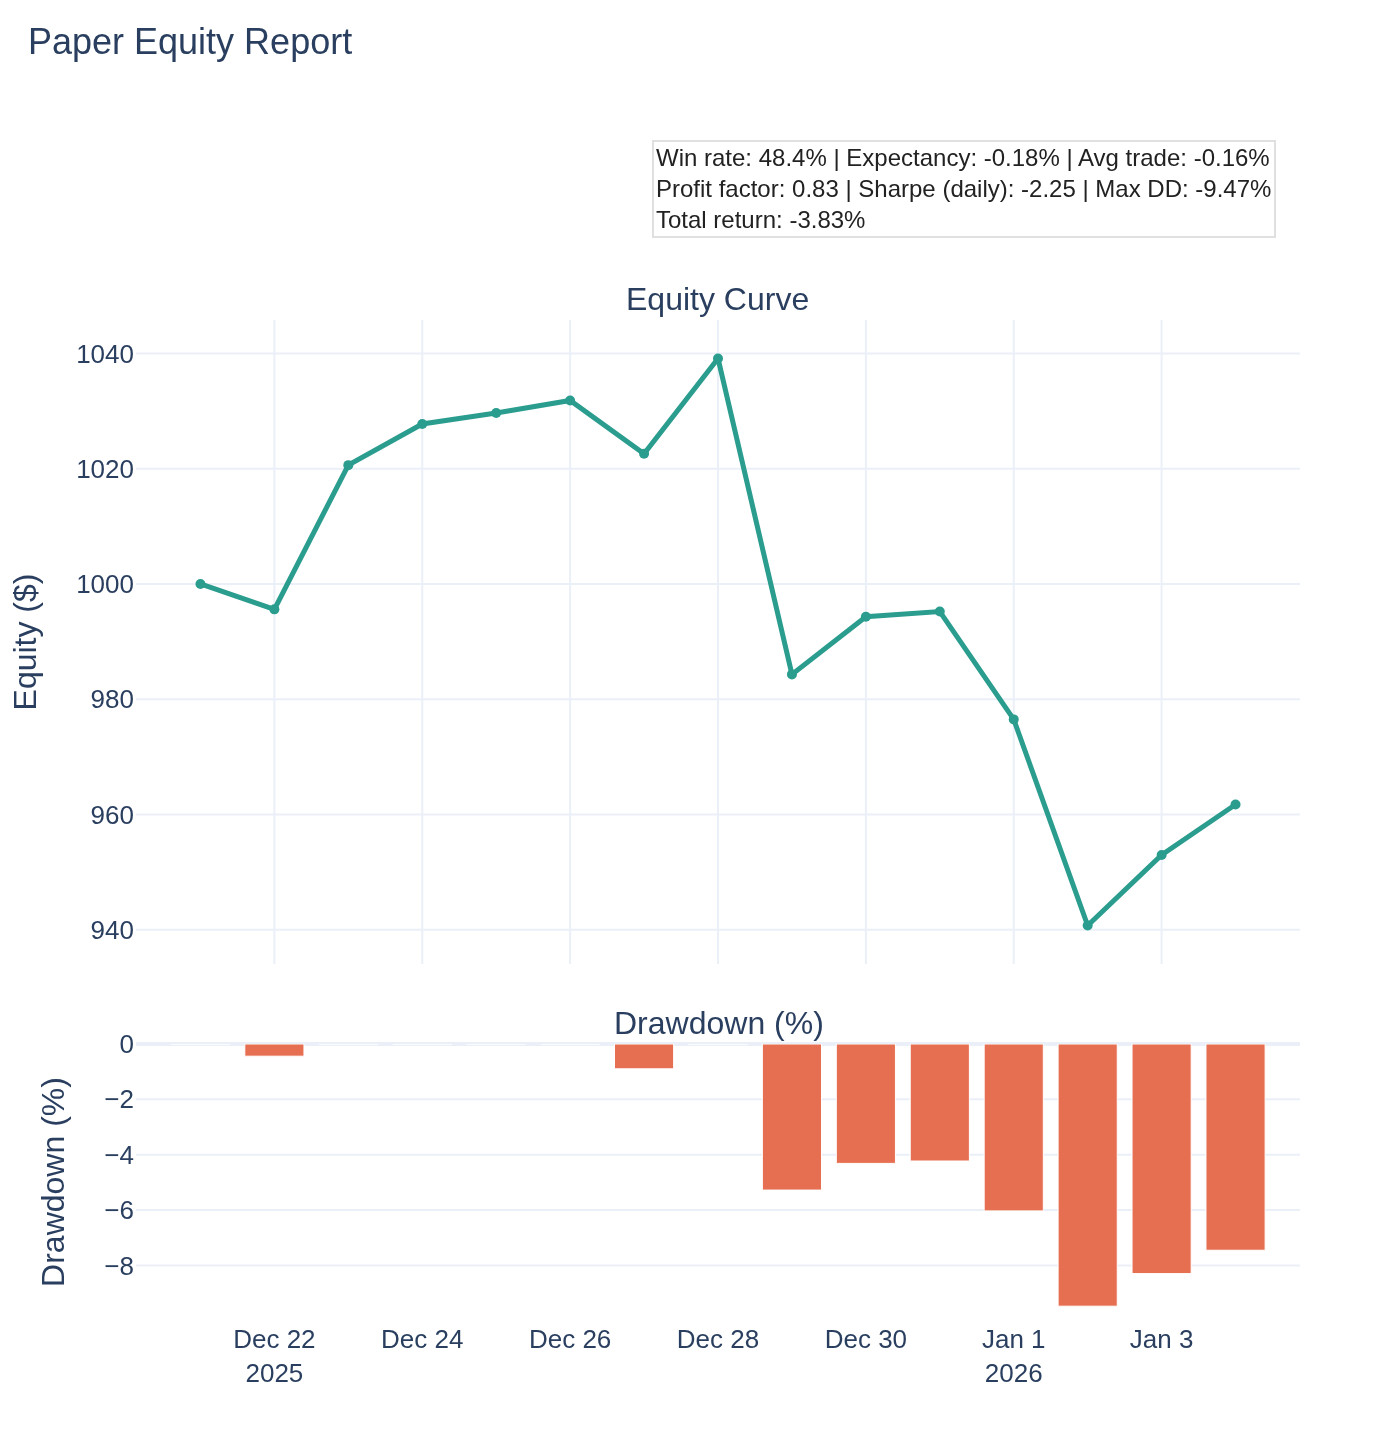
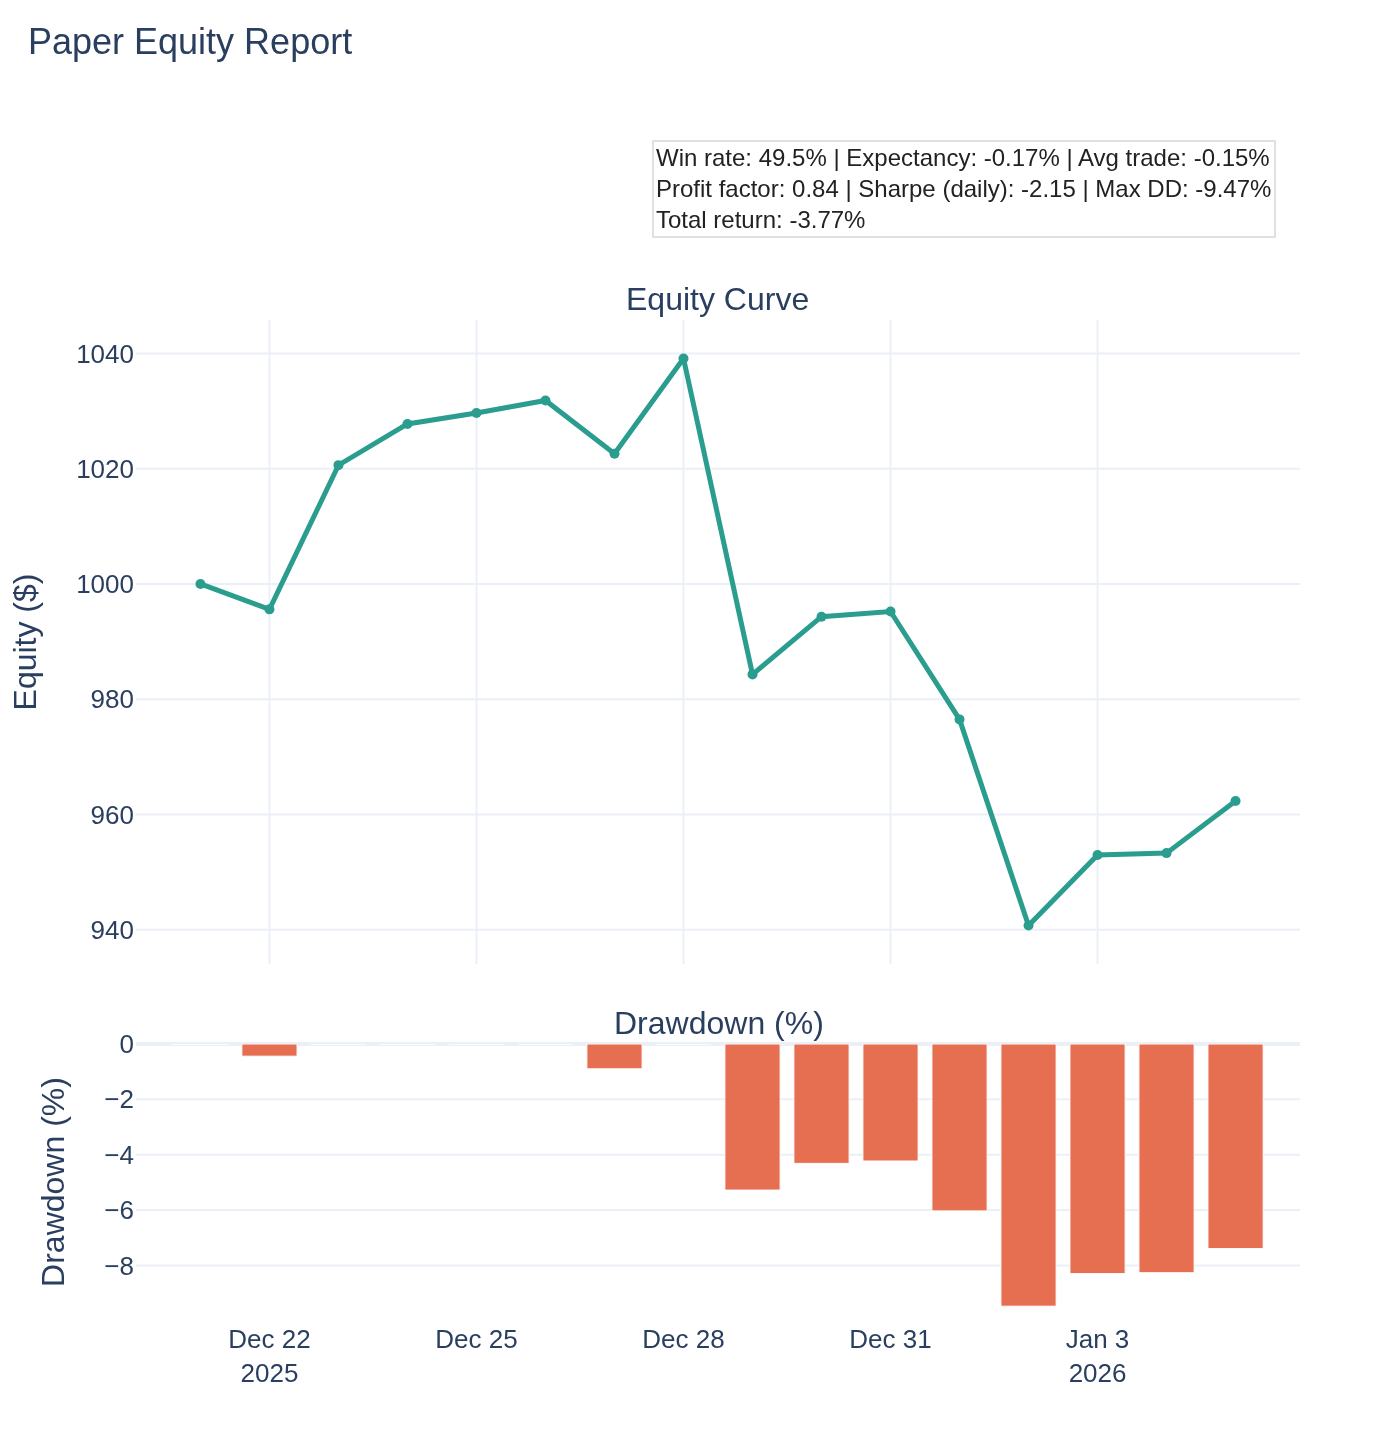
Update equity reports and trade logs

diff --git a/reports/paper_equity_report.html b/reports/paper_equity_report.html
@@ -2,6 +2,6 @@
 <head><meta charset="utf-8" /></head>
 <body>
     <div>                        <script type="text/javascript">window.PlotlyConfig = {MathJaxConfig: 'local'};</script>
[1 lines of base64/hex data omitted]
+        <script charset="utf-8" src="https://cdn.plot.ly/plotly-3.3.0.min.js" integrity="sha256-bO3dS6yCpk9aK4gUpNELtCiDeSYvGYnK7jFI58NQnHI=" crossorigin="anonymous"></script>                <div id="f7a1ffb1-68f8-4d97-8594-7a13114ee379" class="plotly-graph-div" style="height:720px; width:100%;"></div>            <script type="text/javascript">                window.PLOTLYENV=window.PLOTLYENV || {};                                if (document.getElementById("f7a1ffb1-68f8-4d97-8594-7a13114ee379")) {                    Plotly.newPlot(                        "f7a1ffb1-68f8-4d97-8594-7a13114ee379",                        [{"line":{"color":"#2a9d8f","width":2.5},"marker":{"color":"#2a9d8f","size":5},"mode":"lines+markers","name":"Equity","x":["2025-12-21","2025-12-22","2025-12-23","2025-12-24","2025-12-25","2025-12-26","2025-12-27","2025-12-28","2025-12-29","2025-12-30","2025-12-31","2026-01-01","2026-01-02","2026-01-03","2026-01-04","2026-01-05"],"y":{"dtype":"f8","bdata":"AAAAAABAj0AfhetRuByPQClcj8L15I9ArkfhehQPkEBxPQrXoxaQQGZmZmZmH5BAzczMzMz0j0DD9ShcjzyQQGZmZmZmwo5Aw\u002fUoXI8Sj0D2KFyPwhmPQFK4HoXrg45ASOF6FK5ljUCamZmZmceNQArXo3A9yo1AcT0K16MSjkA="},"type":"scatter","xaxis":"x","yaxis":"y"},{"marker":{"color":"#e76f51"},"name":"Drawdown","x":["2025-12-21","2025-12-22","2025-12-23","2025-12-24","2025-12-25","2025-12-26","2025-12-27","2025-12-28","2025-12-29","2025-12-30","2025-12-31","2026-01-01","2026-01-02","2026-01-03","2026-01-04","2026-01-05"],"y":{"dtype":"f8","bdata":"AAAAAAAAAACZTWIQWDncvwAAAAAAAAAAAAAAAAAAAAAAAAAAAAAAAAAAAAAAAAAAF3eV+7Ov7L8AAAAAAAAAAKu7tHsZHBXAUTfly7JAEcBbhLh7AugQwAzHtXe4HRjACF2dhsvxIsCcNToytpYgwK3yIL1zhiDAbE+5\u002fhaRHcA="},"type":"bar","xaxis":"x2","yaxis":"y2"}],                        {"template":{"data":{"barpolar":[{"marker":{"line":{"color":"white","width":0.5},"pattern":{"fillmode":"overlay","size":10,"solidity":0.2}},"type":"barpolar"}],"bar":[{"error_x":{"color":"#2a3f5f"},"error_y":{"color":"#2a3f5f"},"marker":{"line":{"color":"white","width":0.5},"pattern":{"fillmode":"overlay","size":10,"solidity":0.2}},"type":"bar"}],"carpet":[{"aaxis":{"endlinecolor":"#2a3f5f","gridcolor":"#C8D4E3","linecolor":"#C8D4E3","minorgridcolor":"#C8D4E3","startlinecolor":"#2a3f5f"},"baxis":{"endlinecolor":"#2a3f5f","gridcolor":"#C8D4E3","linecolor":"#C8D4E3","minorgridcolor":"#C8D4E3","startlinecolor":"#2a3f5f"},"type":"carpet"}],"choropleth":[{"colorbar":{"outlinewidth":0,"ticks":""},"type":"choropleth"}],"contourcarpet":[{"colorbar":{"outlinewidth":0,"ticks":""},"type":"contourcarpet"}],"contour":[{"colorbar":{"outlinewidth":0,"ticks":""},"colorscale":[[0.0,"#0d0887"],[0.1111111111111111,"#46039f"],[0.2222222222222222,"#7201a8"],[0.3333333333333333,"#9c179e"],[0.4444444444444444,"#bd3786"],[0.5555555555555556,"#d8576b"],[0.6666666666666666,"#ed7953"],[0.7777777777777778,"#fb9f3a"],[0.8888888888888888,"#fdca26"],[1.0,"#f0f921"]],"type":"contour"}],"heatmap":[{"colorbar":{"outlinewidth":0,"ticks":""},"colorscale":[[0.0,"#0d0887"],[0.1111111111111111,"#46039f"],[0.2222222222222222,"#7201a8"],[0.3333333333333333,"#9c179e"],[0.4444444444444444,"#bd3786"],[0.5555555555555556,"#d8576b"],[0.6666666666666666,"#ed7953"],[0.7777777777777778,"#fb9f3a"],[0.8888888888888888,"#fdca26"],[1.0,"#f0f921"]],"type":"heatmap"}],"histogram2dcontour":[{"colorbar":{"outlinewidth":0,"ticks":""},"colorscale":[[0.0,"#0d0887"],[0.1111111111111111,"#46039f"],[0.2222222222222222,"#7201a8"],[0.3333333333333333,"#9c179e"],[0.4444444444444444,"#bd3786"],[0.5555555555555556,"#d8576b"],[0.6666666666666666,"#ed7953"],[0.7777777777777778,"#fb9f3a"],[0.8888888888888888,"#fdca26"],[1.0,"#f0f921"]],"type":"histogram2dcontour"}],"histogram2d":[{"colorbar":{"outlinewidth":0,"ticks":""},"colorscale":[[0.0,"#0d0887"],[0.1111111111111111,"#46039f"],[0.2222222222222222,"#7201a8"],[0.3333333333333333,"#9c179e"],[0.4444444444444444,"#bd3786"],[0.5555555555555556,"#d8576b"],[0.6666666666666666,"#ed7953"],[0.7777777777777778,"#fb9f3a"],[0.8888888888888888,"#fdca26"],[1.0,"#f0f921"]],"type":"histogram2d"}],"histogram":[{"marker":{"pattern":{"fillmode":"overlay","size":10,"solidity":0.2}},"type":"histogram"}],"mesh3d":[{"colorbar":{"outlinewidth":0,"ticks":""},"type":"mesh3d"}],"parcoords":[{"line":{"colorbar":{"outlinewidth":0,"ticks":""}},"type":"parcoords"}],"pie":[{"automargin":true,"type":"pie"}],"scatter3d":[{"line":{"colorbar":{"outlinewidth":0,"ticks":""}},"marker":{"colorbar":{"outlinewidth":0,"ticks":""}},"type":"scatter3d"}],"scattercarpet":[{"marker":{"colorbar":{"outlinewidth":0,"ticks":""}},"type":"scattercarpet"}],"scattergeo":[{"marker":{"colorbar":{"outlinewidth":0,"ticks":""}},"type":"scattergeo"}],"scattergl":[{"marker":{"colorbar":{"outlinewidth":0,"ticks":""}},"type":"scattergl"}],"scattermapbox":[{"marker":{"colorbar":{"outlinewidth":0,"ticks":""}},"type":"scattermapbox"}],"scattermap":[{"marker":{"colorbar":{"outlinewidth":0,"ticks":""}},"type":"scattermap"}],"scatterpolargl":[{"marker":{"colorbar":{"outlinewidth":0,"ticks":""}},"type":"scatterpolargl"}],"scatterpolar":[{"marker":{"colorbar":{"outlinewidth":0,"ticks":""}},"type":"scatterpolar"}],"scatter":[{"fillpattern":{"fillmode":"overlay","size":10,"solidity":0.2},"type":"scatter"}],"scatterternary":[{"marker":{"colorbar":{"outlinewidth":0,"ticks":""}},"type":"scatterternary"}],"surface":[{"colorbar":{"outlinewidth":0,"ticks":""},"colorscale":[[0.0,"#0d0887"],[0.1111111111111111,"#46039f"],[0.2222222222222222,"#7201a8"],[0.3333333333333333,"#9c179e"],[0.4444444444444444,"#bd3786"],[0.5555555555555556,"#d8576b"],[0.6666666666666666,"#ed7953"],[0.7777777777777778,"#fb9f3a"],[0.8888888888888888,"#fdca26"],[1.0,"#f0f921"]],"type":"surface"}],"table":[{"cells":{"fill":{"color":"#EBF0F8"},"line":{"color":"white"}},"header":{"fill":{"color":"#C8D4E3"},"line":{"color":"white"}},"type":"table"}]},"layout":{"annotationdefaults":{"arrowcolor":"#2a3f5f","arrowhead":0,"arrowwidth":1},"autotypenumbers":"strict","coloraxis":{"colorbar":{"outlinewidth":0,"ticks":""}},"colorscale":{"diverging":[[0,"#8e0152"],[0.1,"#c51b7d"],[0.2,"#de77ae"],[0.3,"#f1b6da"],[0.4,"#fde0ef"],[0.5,"#f7f7f7"],[0.6,"#e6f5d0"],[0.7,"#b8e186"],[0.8,"#7fbc41"],[0.9,"#4d9221"],[1,"#276419"]],"sequential":[[0.0,"#0d0887"],[0.1111111111111111,"#46039f"],[0.2222222222222222,"#7201a8"],[0.3333333333333333,"#9c179e"],[0.4444444444444444,"#bd3786"],[0.5555555555555556,"#d8576b"],[0.6666666666666666,"#ed7953"],[0.7777777777777778,"#fb9f3a"],[0.8888888888888888,"#fdca26"],[1.0,"#f0f921"]],"sequentialminus":[[0.0,"#0d0887"],[0.1111111111111111,"#46039f"],[0.2222222222222222,"#7201a8"],[0.3333333333333333,"#9c179e"],[0.4444444444444444,"#bd3786"],[0.5555555555555556,"#d8576b"],[0.6666666666666666,"#ed7953"],[0.7777777777777778,"#fb9f3a"],[0.8888888888888888,"#fdca26"],[1.0,"#f0f921"]]},"colorway":["#636efa","#EF553B","#00cc96","#ab63fa","#FFA15A","#19d3f3","#FF6692","#B6E880","#FF97FF","#FECB52"],"font":{"color":"#2a3f5f"},"geo":{"bgcolor":"white","lakecolor":"white","landcolor":"white","showlakes":true,"showland":true,"subunitcolor":"#C8D4E3"},"hoverlabel":{"align":"left"},"hovermode":"closest","mapbox":{"style":"light"},"paper_bgcolor":"white","plot_bgcolor":"white","polar":{"angularaxis":{"gridcolor":"#EBF0F8","linecolor":"#EBF0F8","ticks":""},"bgcolor":"white","radialaxis":{"gridcolor":"#EBF0F8","linecolor":"#EBF0F8","ticks":""}},"scene":{"xaxis":{"backgroundcolor":"white","gridcolor":"#DFE8F3","gridwidth":2,"linecolor":"#EBF0F8","showbackground":true,"ticks":"","zerolinecolor":"#EBF0F8"},"yaxis":{"backgroundcolor":"white","gridcolor":"#DFE8F3","gridwidth":2,"linecolor":"#EBF0F8","showbackground":true,"ticks":"","zerolinecolor":"#EBF0F8"},"zaxis":{"backgroundcolor":"white","gridcolor":"#DFE8F3","gridwidth":2,"linecolor":"#EBF0F8","showbackground":true,"ticks":"","zerolinecolor":"#EBF0F8"}},"shapedefaults":{"line":{"color":"#2a3f5f"}},"ternary":{"aaxis":{"gridcolor":"#DFE8F3","linecolor":"#A2B1C6","ticks":""},"baxis":{"gridcolor":"#DFE8F3","linecolor":"#A2B1C6","ticks":""},"bgcolor":"white","caxis":{"gridcolor":"#DFE8F3","linecolor":"#A2B1C6","ticks":""}},"title":{"x":0.05},"xaxis":{"automargin":true,"gridcolor":"#EBF0F8","linecolor":"#EBF0F8","ticks":"","title":{"standoff":15},"zerolinecolor":"#EBF0F8","zerolinewidth":2},"yaxis":{"automargin":true,"gridcolor":"#EBF0F8","linecolor":"#EBF0F8","ticks":"","title":{"standoff":15},"zerolinecolor":"#EBF0F8","zerolinewidth":2}}},"xaxis":{"anchor":"y","domain":[0.0,1.0],"matches":"x2","showticklabels":false},"yaxis":{"anchor":"x","domain":[0.35600000000000004,1.0],"title":{"text":"Equity ($)"}},"xaxis2":{"anchor":"y2","domain":[0.0,1.0]},"yaxis2":{"anchor":"x2","domain":[0.0,0.276],"title":{"text":"Drawdown (%)"}},"annotations":[{"font":{"size":16},"showarrow":false,"text":"Equity Curve","x":0.5,"xanchor":"center","xref":"paper","y":1.0,"yanchor":"bottom","yref":"paper"},{"font":{"size":16},"showarrow":false,"text":"Drawdown (%)","x":0.5,"xanchor":"center","xref":"paper","y":0.276,"yanchor":"bottom","yref":"paper"},{"align":"left","bgcolor":"rgba(255,255,255,0.9)","bordercolor":"#e0e0e0","borderwidth":1,"font":{"color":"#222","size":12},"showarrow":false,"text":"Win rate: 49.5% | Expectancy: -0.17% | Avg trade: -0.15%\u003cbr\u003eProfit factor: 0.84 | Sharpe (daily): -2.15 | Max DD: -9.47%\u003cbr\u003eTotal return: -3.77%","x":0.98,"xanchor":"right","xref":"paper","y":1.18,"yanchor":"top","yref":"paper"}],"title":{"text":"Paper Equity Report","x":0.02,"xanchor":"left","y":0.98,"yanchor":"top"},"margin":{"l":50,"r":50,"t":160,"b":60},"font":{"size":13},"height":720,"showlegend":false},                        {"responsive": true}                    )                };            </script>        </div>
 </body>
 </html>
